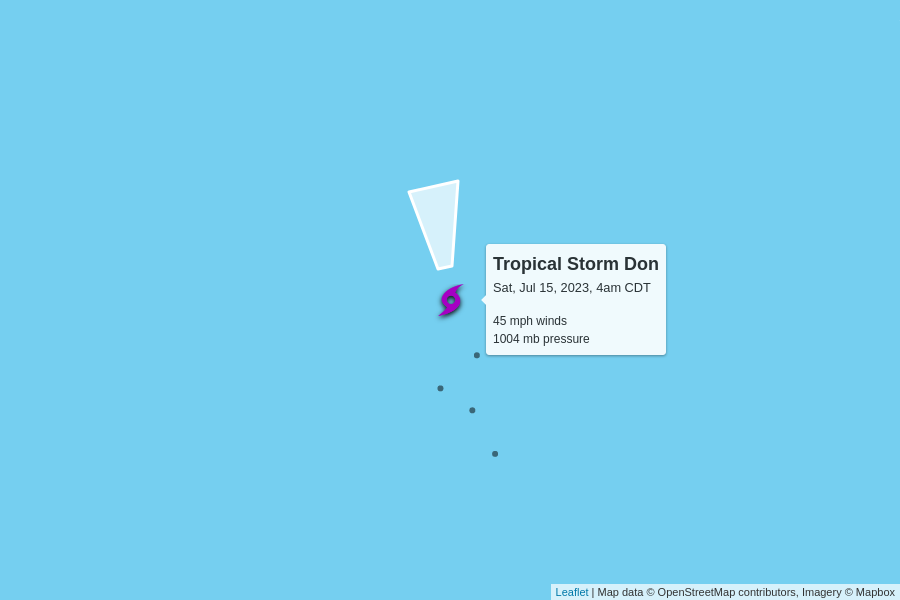
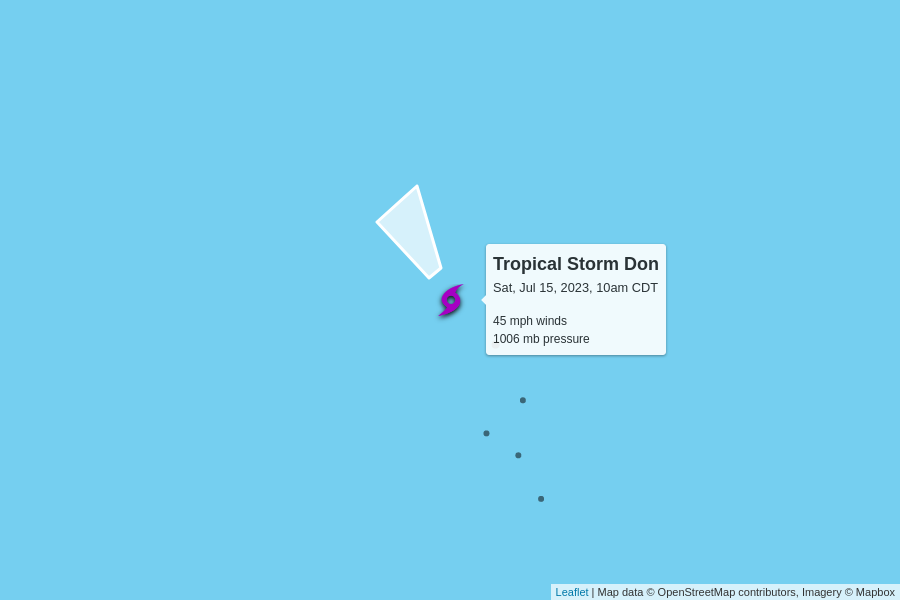
automatic update

Changed region(s): [[0.4044, 0.3, 0.5289, 0.48], [0.6533, 0.45, 0.7156, 0.51]]

diff --git a/docs/index.html b/docs/index.html
@@ -100,7 +100,7 @@
         <td colspan="6" class="storm category-0" >
           <h2>
             Tropical Storm Don
-            <p class="updated">last updated <span data-time>2023-07-15T09:00:00.000Z</span></p>
+            <p class="updated">last updated <span data-time>2023-07-15T15:00:00.000Z</span></p>
           </h2>
         </td>
       </tr>
@@ -116,11 +116,11 @@
       <tr>
         <td class="spacer"></td>
         <td>45 mph</td>
-        <td>1004 mb</td>
+        <td>1006 mb</td>
         <td>
-          9 mph to the north
+          9 mph to the northwest
           <br/>
-          <span style="display: inline-block; font-size: 1.5em; transform: rotate(350deg);">↑</span>
+          <span style="display: inline-block; font-size: 1.5em; transform: rotate(325deg);">↑</span>
         </td>
         <td><a href="https://raw.githubusercontent.com/mgwalker/atlantic-hurricanes/main/data/csv/AL052023.csv">AL052023.csv</a></td>
         <td><a href="https://www.nhc.noaa.gov/archive/2023/DON.shtml?">NHC advisories</a></td>
